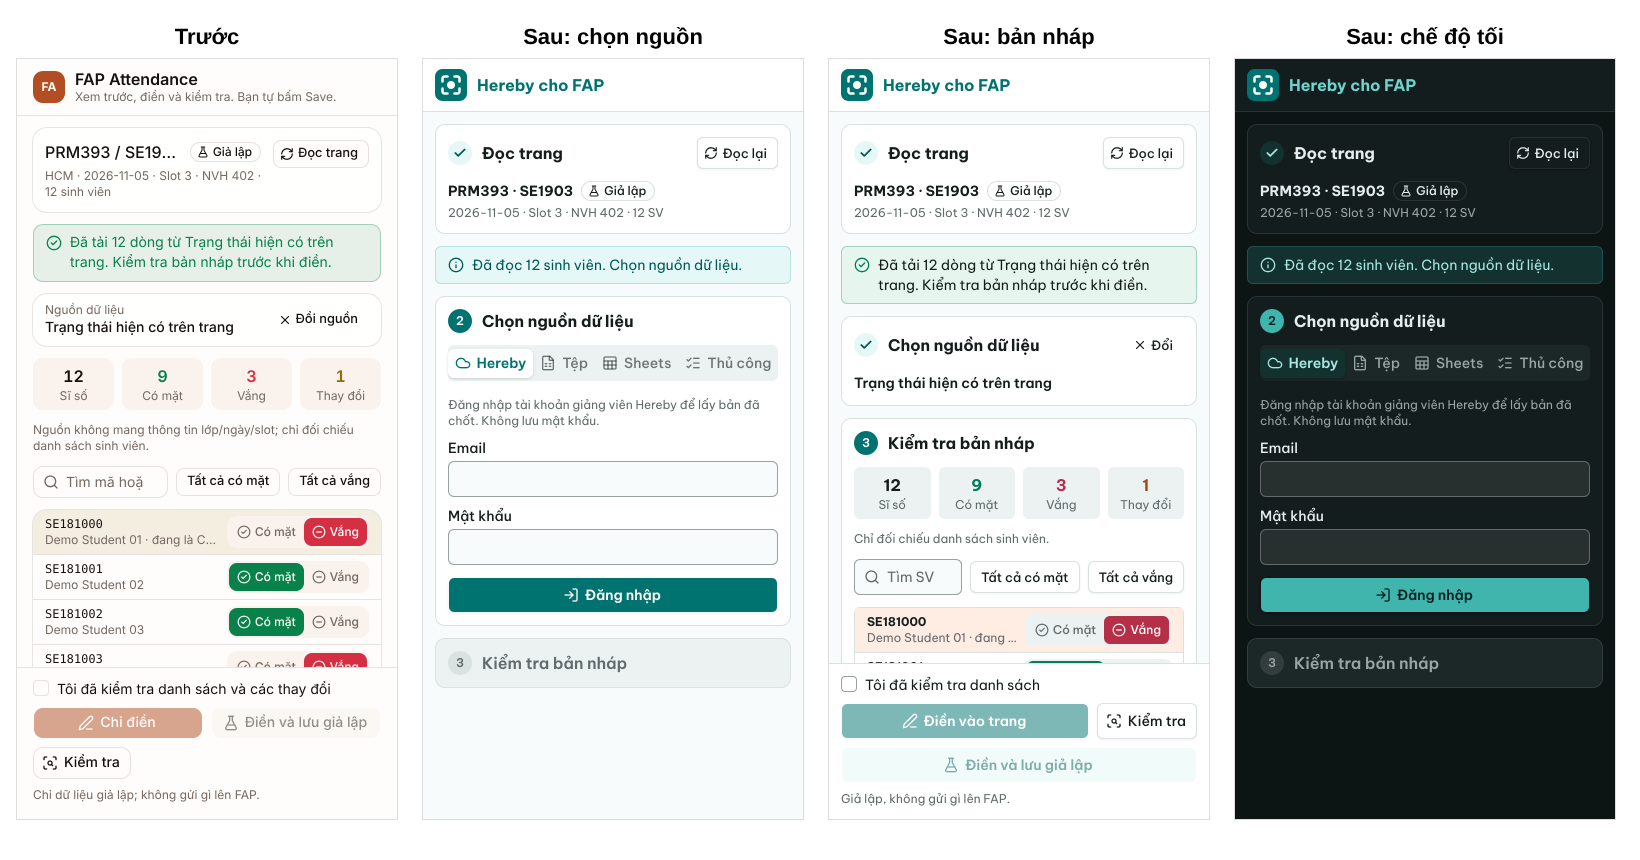
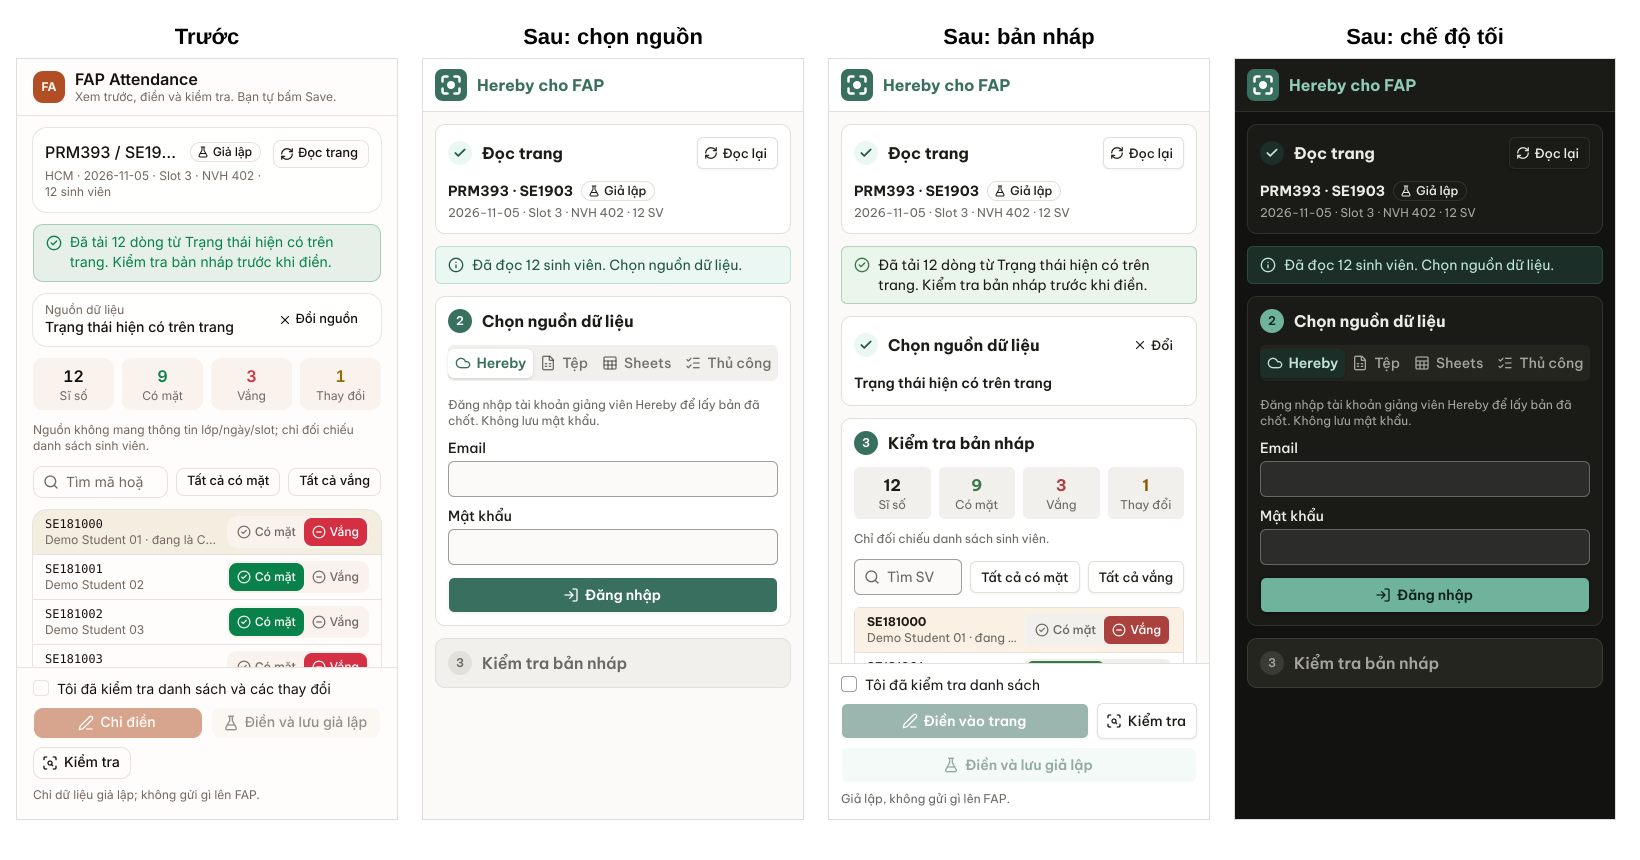
extension: final palette C "Xanh xô thơm" (sage)
Matches design/tokens/hereby.css and design/icon/hereby-app-icon.svg at
a455eb3 (PR #16): primary #386F5F, amber warning #8D5E00, success
#397949, danger #AB413E, warm background #FBFAF8, border #E1E0DA, ink
#1C1B16; logo shape unchanged, background now #386F5F; icons redrawn.

Claude-Session: https://claude.ai/code/session_01URCHsNZbSHWF7DNruLk2C3

diff --git a/extension/src/styles/globals.css b/extension/src/styles/globals.css
@@ -75,81 +75,81 @@
   src: url('../assets/fonts/be-vietnam-pro-bold.woff2') format('woff2');
 }
 
-/* Hereby "Teal + san hô" theme (palette B), same values as design/tokens/hereby.css (--hb-*), generated from
+/* Hereby "Xanh xô thơm" theme (sage, palette C), same values as design/tokens/hereby.css (--hb-*), generated from
    packages/core/lib/theme/tokens.dart. Copied here until that file reaches final-system; then map
    these onto var(--hb-...) (D-008). Never name them --color-*: that is Tailwind's namespace.
-   primary = buttons and selection (white text on it); primary-ink = teal for text and icons.
-   ok = ATTEND, alert = ABSENT, warn (coral) = a pending change. */
+   primary = buttons and selection (white text on it); primary-ink = sage for text and icons.
+   ok = ATTEND, alert = ABSENT, warn (amber) = a pending change. */
 :root {
-  --background: #f8fbfb;
-  --foreground: #151c1c;
+  --background: #fbfaf8;
+  --foreground: #1c1b16;
   --card: #ffffff;
-  --card-foreground: #151c1c;
+  --card-foreground: #1c1b16;
   --popover: #ffffff;
-  --popover-foreground: #151c1c;
-  --primary: #007370;
+  --popover-foreground: #1c1b16;
+  --primary: #386f5f;
   --primary-foreground: #ffffff;
-  --primary-pressed: #00615f;
-  --primary-ink: #007370;
-  --primary-soft: #e5f8f7;
-  --on-primary-soft: #005b58;
-  --primary-soft-edge: #b6e1df;
-  --secondary: #ebf2f1;
-  --secondary-foreground: #151c1c;
-  --muted: #ebf2f1;
-  --muted-foreground: #626b6b;
-  --accent: #e3ebeb;
-  --accent-foreground: #151c1c;
-  --destructive: #b52f48;
-  --border: #d9e2e1;
-  --input: #97a1a0;
+  --primary-pressed: #295e4f;
+  --primary-ink: #386f5f;
+  --primary-soft: #eaf7f2;
+  --on-primary-soft: #275749;
+  --primary-soft-edge: #c3dfd5;
+  --secondary: #f1f0ec;
+  --secondary-foreground: #1c1b16;
+  --muted: #f1f0ec;
+  --muted-foreground: #6a6963;
+  --accent: #ebe9e4;
+  --accent-foreground: #1c1b16;
+  --destructive: #ab413e;
+  --border: #e1e0da;
+  --input: #a09e98;
   --ring: var(--accent-brand);
-  --accent-brand: #007370;
-  --ok: #007c59;
-  --ok-soft: #e6f6ee;
-  --warn: #a84811;
-  --warn-soft: #ffede4;
-  --alert: #b52f48;
-  --alert-soft: #ffeaeb;
-  --info: #007370;
-  --shadow-ink: rgb(21 28 28 / 6%);
+  --accent-brand: #386f5f;
+  --ok: #397949;
+  --ok-soft: #eaf5ec;
+  --warn: #8d5e00;
+  --warn-soft: #faf0e4;
+  --alert: #ab413e;
+  --alert-soft: #ffece9;
+  --info: #386f5f;
+  --shadow-ink: rgb(28 27 22 / 6%);
   --radius: 0.375rem;
 }
 
-/* Dark: the app has no dark theme yet, so these are derived from the same teal (text on card and
+/* Dark: the app has no dark theme yet, so these are derived from the same sage (text on card and
    text on the primary button checked >= 4.5:1). */
 .dark {
-  --background: #0d1414;
-  --foreground: #e5eded;
-  --card: #141d1d;
-  --card-foreground: #e5eded;
-  --popover: #141d1d;
-  --popover-foreground: #e5eded;
-  --primary: #3fb5ae;
-  --primary-foreground: #04201f;
-  --primary-pressed: #5cc4bd;
-  --primary-ink: #6fd4cd;
-  --primary-soft: #12312f;
-  --on-primary-soft: #a5e6e1;
-  --primary-soft-edge: #22504c;
-  --secondary: #1c2727;
-  --secondary-foreground: #e5eded;
-  --muted: #1c2727;
-  --muted-foreground: #98a6a6;
-  --accent: #223030;
-  --accent-foreground: #e5eded;
-  --destructive: #f28aa0;
+  --background: #121310;
+  --foreground: #ecebe6;
+  --card: #1a1b17;
+  --card-foreground: #ecebe6;
+  --popover: #1a1b17;
+  --popover-foreground: #ecebe6;
+  --primary: #6fb39d;
+  --primary-foreground: #0d1f19;
+  --primary-pressed: #86c2ae;
+  --primary-ink: #8fcbb7;
+  --primary-soft: #1b2f28;
+  --on-primary-soft: #bfe3d5;
+  --primary-soft-edge: #2d4a40;
+  --secondary: #24251f;
+  --secondary-foreground: #ecebe6;
+  --muted: #24251f;
+  --muted-foreground: #a5a49d;
+  --accent: #2a2b25;
+  --accent-foreground: #ecebe6;
+  --destructive: #f09a94;
   --border: rgb(255 255 255 / 10%);
   --input: rgb(255 255 255 / 28%);
   --ring: var(--accent-brand);
-  --accent-brand: #6fd4cd;
-  --ok: #4ccb98;
-  --ok-soft: rgb(76 203 152 / 12%);
-  --warn: #f4a27c;
-  --warn-soft: rgb(244 162 124 / 12%);
-  --alert: #f28aa0;
-  --alert-soft: rgb(242 138 160 / 12%);
-  --info: #6fd4cd;
+  --accent-brand: #8fcbb7;
+  --ok: #6cc07f;
+  --ok-soft: rgb(108 192 127 / 12%);
+  --warn: #e0b25e;
+  --warn-soft: rgb(224 178 94 / 12%);
+  --alert: #f09a94;
+  --alert-soft: rgb(240 154 148 / 12%);
+  --info: #8fcbb7;
   --shadow-ink: rgb(0 0 0 / 30%);
 }
 

diff --git a/extension/docs/decisions.md b/extension/docs/decisions.md
@@ -72,13 +72,13 @@ Supersedes D-003 only for file and sheet sources with the option enabled.
 ## D-008 2026-11-05 Hereby look instead of the sakubun terracotta theme
 
 Context: the extension ships as part of the Hereby system (app, web admin, extension) and must
-look like one product. Decision: `src/styles/globals.css` carries the Hereby "Teal + san hô" tokens (palette B)
+look like one product. Decision: `src/styles/globals.css` carries the Hereby "Xanh xô thơm" tokens (sage, palette C)
 (shadcn-like), the same values as `design/tokens/hereby.css` generated from
-`packages/core/lib/theme/tokens.dart`: background #F8FBFB, white cards with a #D9E2E1 border, no
-shadow, radius 10, controls radius 6, one ink colour #151C1C for text, coral #A84811 for warnings, primary teal #007370 with
+`packages/core/lib/theme/tokens.dart`: background #FBFAF8, white cards with a #E1E0DA border, no
+shadow, radius 10, controls radius 6, one ink colour #1C1B16 for text, amber #8D5E00 for warnings, primary sage #386F5F with
 white text on main buttons and for links, icons and selection. Be Vietnam Pro is bundled from `src/assets/fonts` (woff2 converted
 from the OFL TTFs in `packages/core/fonts`; no remote font). The header shows the Hereby icon with
-the name "Hereby cho FAP" (logo: a dot inside a four-corner viewfinder). The dark variant is derived from the same teal until the app defines one.
+the name "Hereby cho FAP" (logo: a dot inside a four-corner viewfinder). The dark variant is derived from the same sage until the app defines one.
 When `design/tokens/hereby.css` reaches this branch, map the shadcn variables onto its `--hb-*`
 variables instead of the local copy; never alias them through `--color-*` (Tailwind's theme
 namespace, which would make a variable cycle). Supersedes the theme part of D-005; the stack and

diff --git a/extension/CHANGELOG.md b/extension/CHANGELOG.md
@@ -4,7 +4,7 @@
 
 ### Changed
 
-- Rebranded to Hereby (D-008): "Teal + san hô" colours from the Hereby app, Be Vietnam Pro bundled
+- Rebranded to Hereby (D-008): "Xanh xô thơm" (sage) colours from the Hereby app, Be Vietnam Pro bundled
   locally, Hereby icon and the name "Hereby cho FAP" in the header, manifest and toolbar icons.
 - The panel is now three numbered step cards (Đọc trang, Chọn nguồn dữ liệu, Kiểm tra bản nháp);
   steps that cannot start yet are shown greyed out. Most helper text was shortened.
